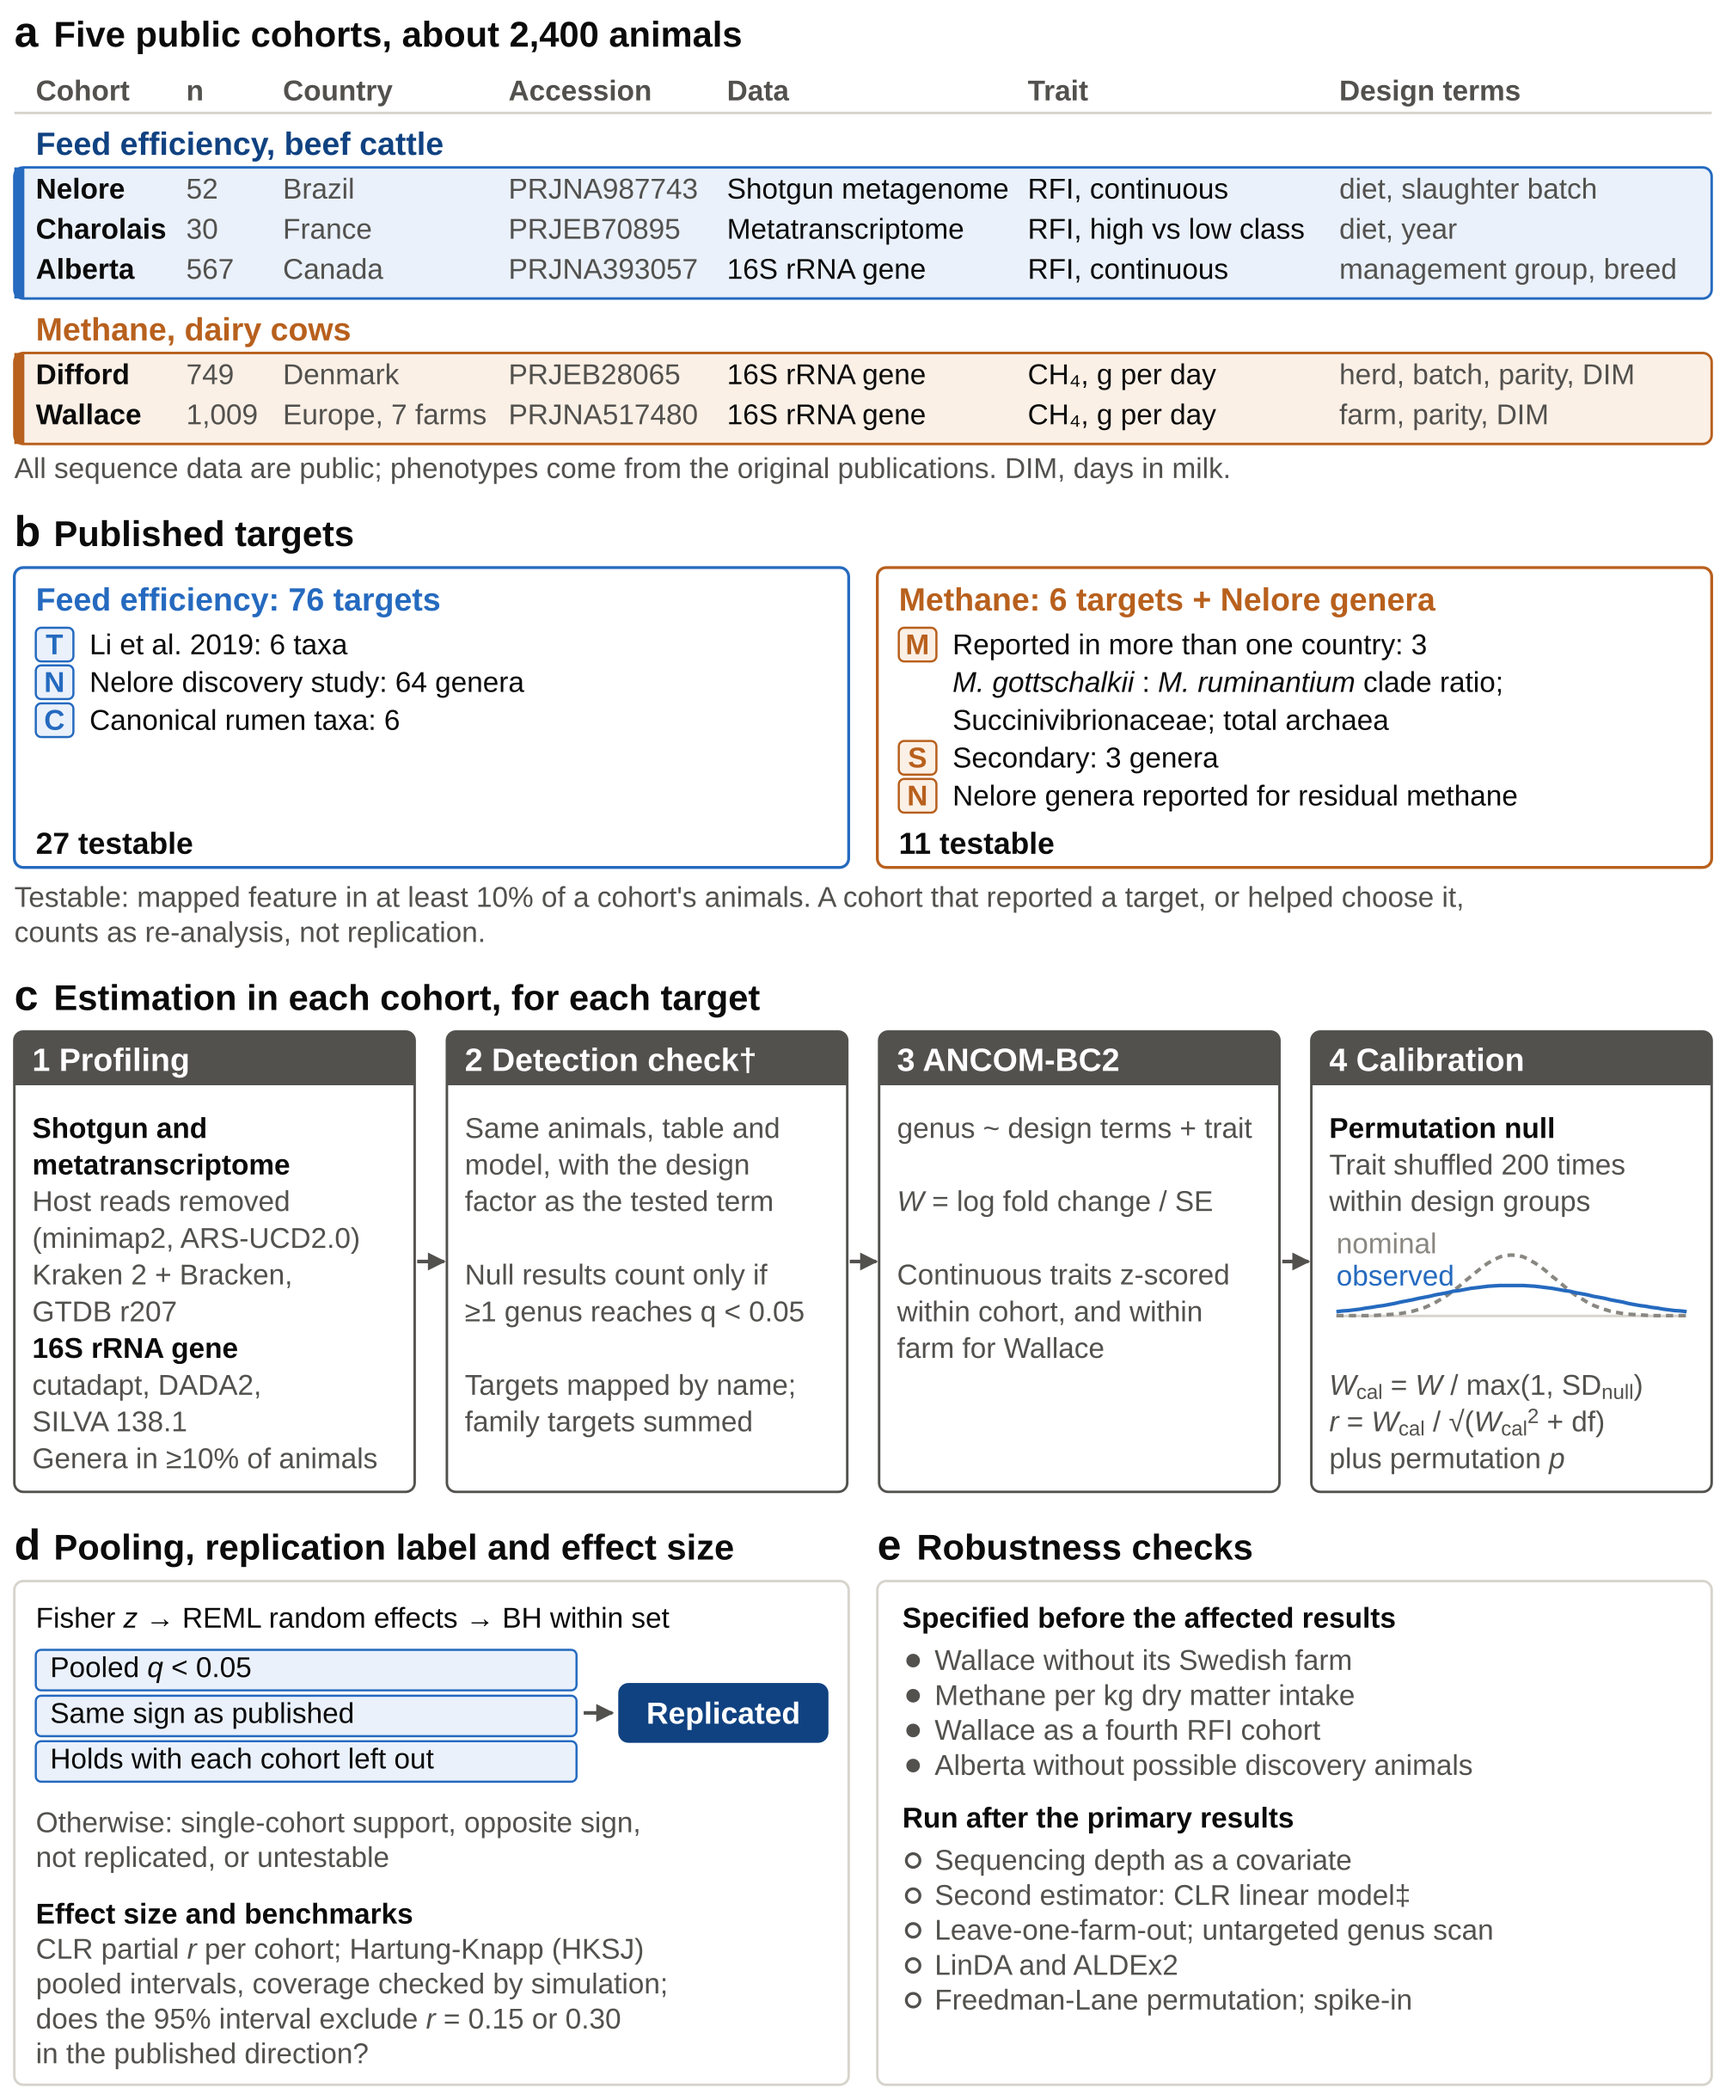
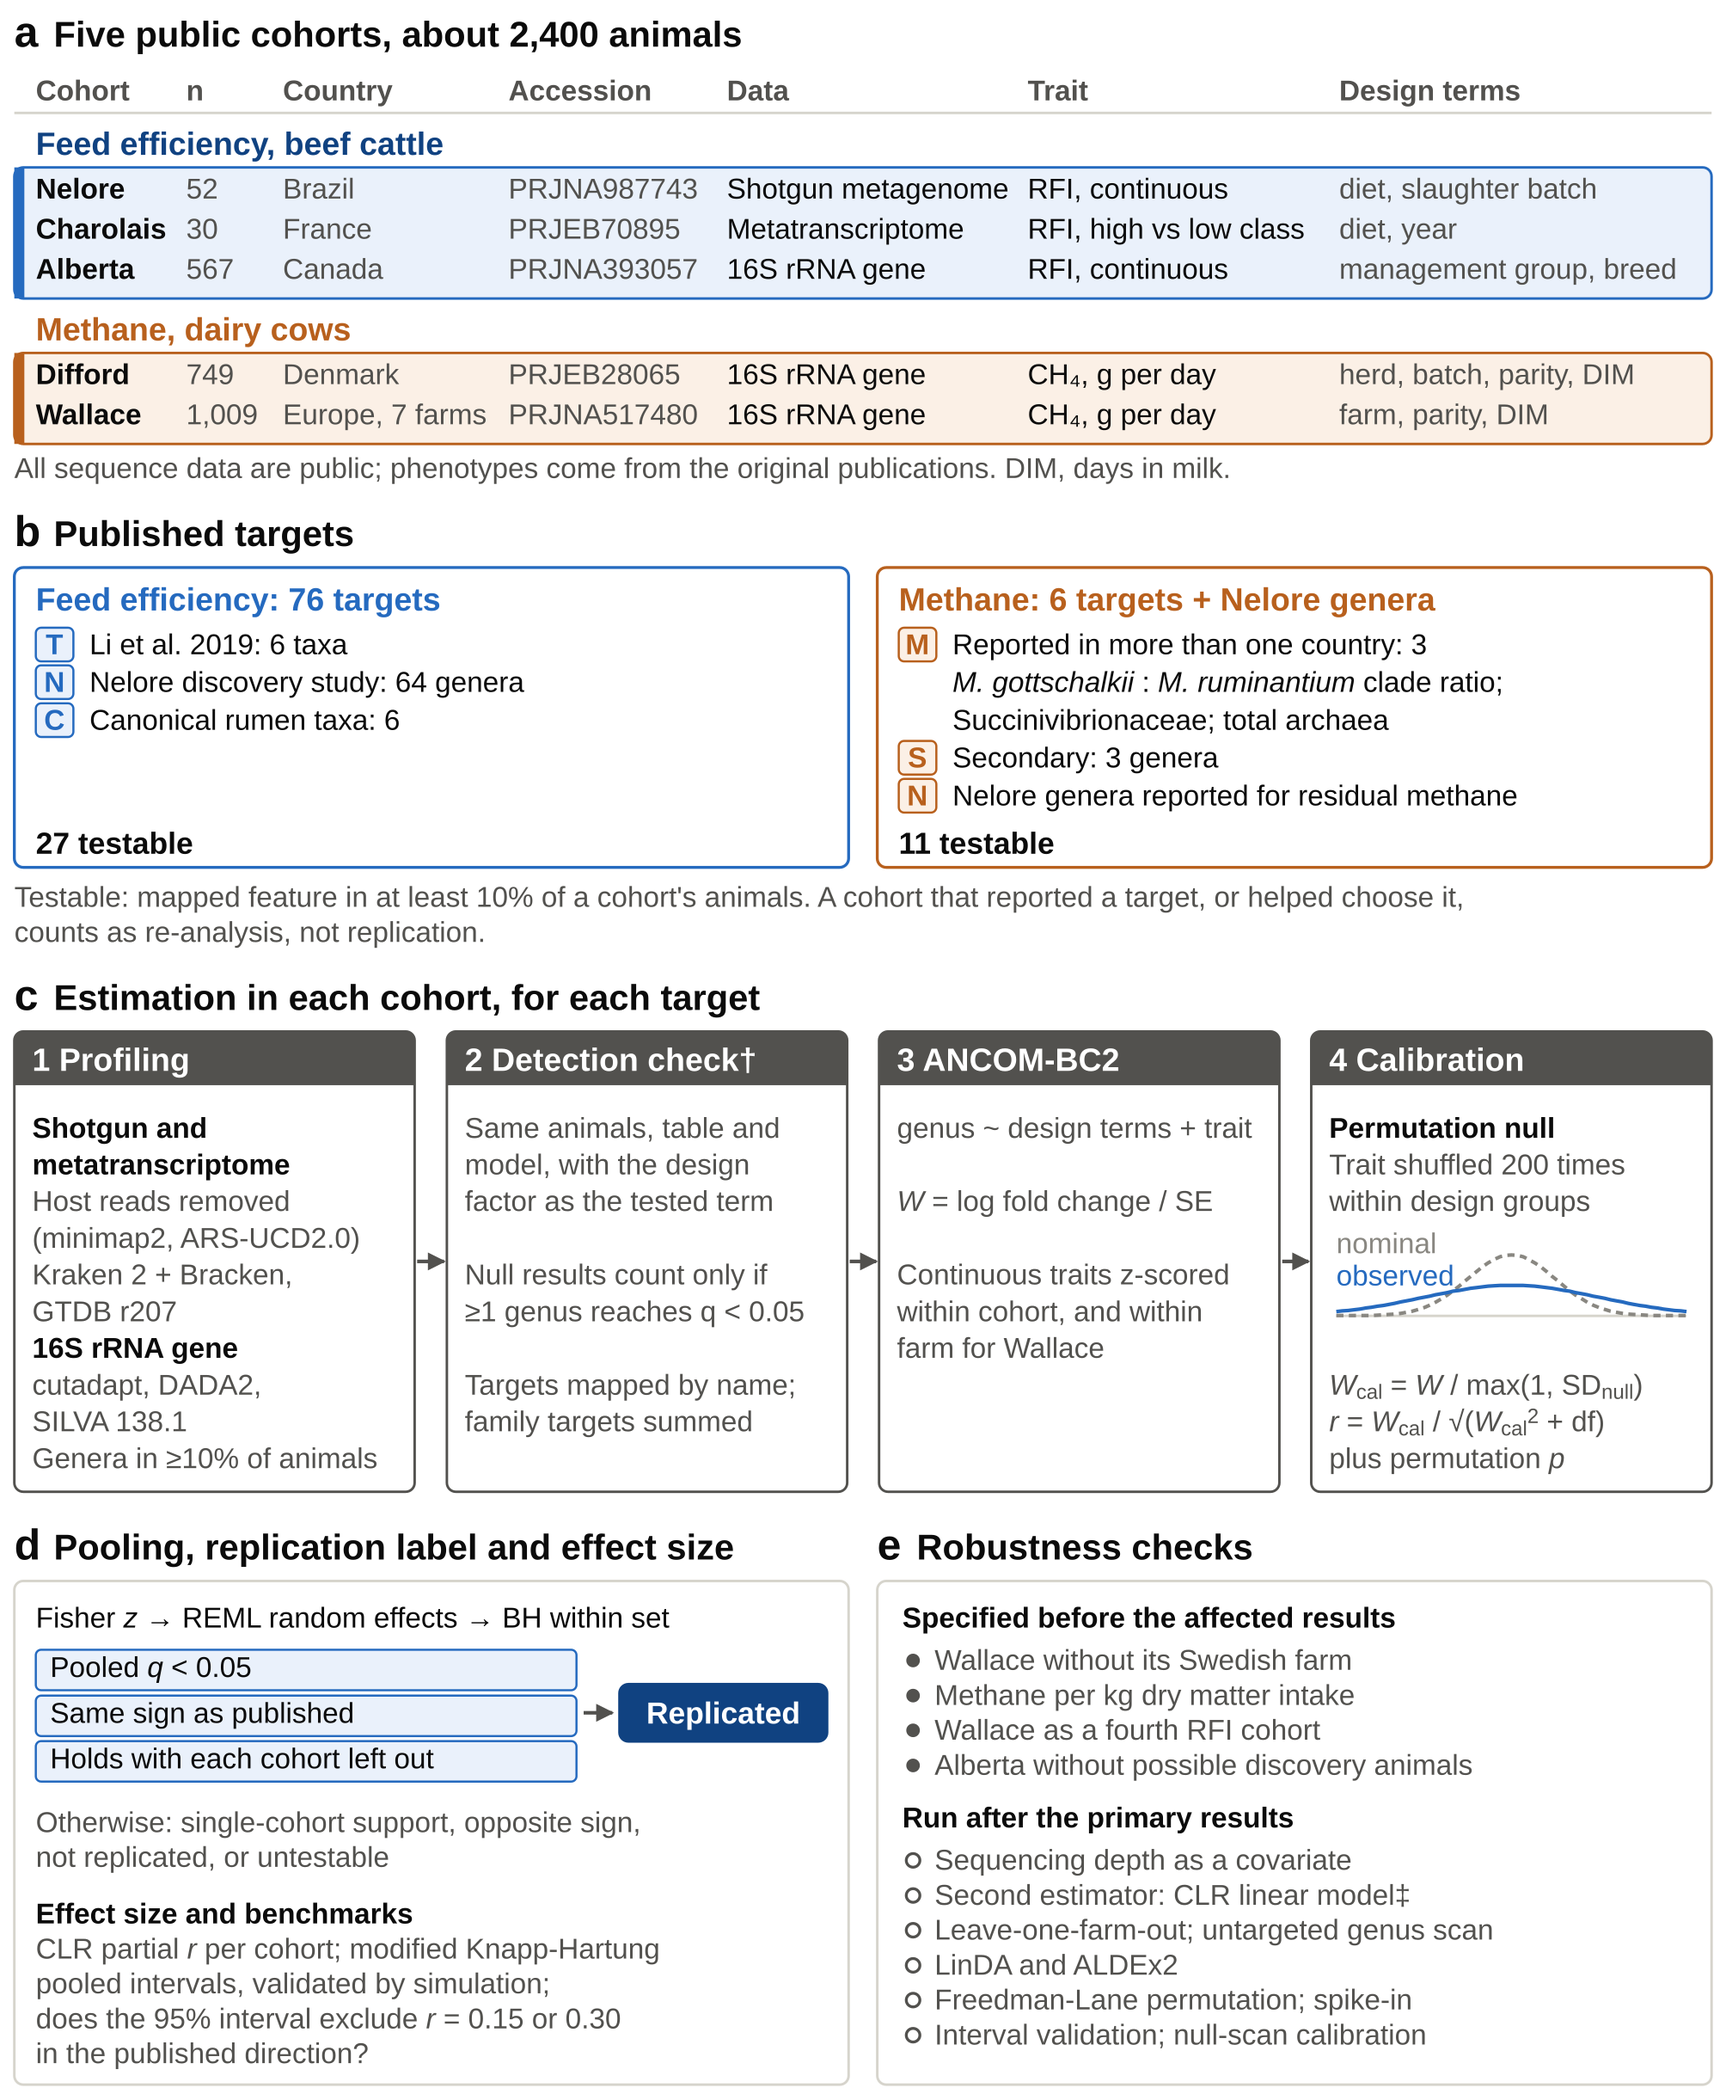
Figure 1: panel d names the modified Knapp-Hartung interval (Amendment 47); panel e adds interval validation and null-scan calibration
Claude-Session: https://claude.ai/code/session_01NJM8KMhUDb1Fhr6i6hfc5N

Changed region(s): [[0.1544, 0.9025, 0.3705, 0.9648], [0.6793, 0.9648, 0.8028, 0.9959], [0.5558, 0.9648, 0.6484, 0.9959]]

diff --git a/scripts/111_figure1_schematic.py b/scripts/111_figure1_schematic.py
@@ -3,7 +3,8 @@
 Render to PDF/PNG with: node scripts/111_render_svg.js fig1_study_design.svg out.png out.pdf <height>mm   (height printed below)
 Amendment 46.5.7: redrawn so that every text is at least 8 pt at 170 mm. The canvas is 482 units wide = 170 mm, so 1 unit = 1 pt.
 Text widths are measured with Arial/Liberation Sans advance widths (table below) and every text is checked against the space it is given;
-the script stops if any text would overflow. Panel d describes the Amendment 46 effect-size estimand behind the exclusion statements."""
+the script stops if any text would overflow. Panel d describes the effect-size estimand behind the exclusion statements: the Amendment 46 CLR partial r
+with the modified Knapp-Hartung interval validated in Amendment 47; panel e lists the Amendment 47 interval validation and null-scan calibration."""
 import re, math, json
 
 W = 482
@@ -186,7 +187,7 @@ yy += 3 * (LH + 3) + 5
 yy = text(M + 6, yy, ['Otherwise: single-cohort support, opposite sign,', 'not replicated, or untestable'], size=S_SM, color=INK2, lh=LH, maxw=dw - 12)
 yy += 6
 text(M + 6, yy, 'Effect size and benchmarks', size=S_SM, weight='bold', maxw=dw - 12)
-yy = text(M + 6, yy + LH, ['CLR partial *r* per cohort; Hartung-Knapp (HKSJ)', 'pooled intervals, coverage checked by simulation;',
+yy = text(M + 6, yy + LH, ['CLR partial *r* per cohort; modified Knapp-Hartung', 'pooled intervals, validated by simulation;',
                            'does the 95% interval exclude *r* = 0.15 or 0.30', 'in the published direction?'], size=S_SM, color=INK2, lh=LH, maxw=dw - 12)
 d_end = yy - LH + 6
 def bullets(y0, head, items, filled):
@@ -201,7 +202,7 @@ yy = bullets(py + 13, 'Specified before the affected results',
              ['Wallace without its Swedish farm', 'Methane per kg dry matter intake', 'Wallace as a fourth RFI cohort', 'Alberta without possible discovery animals'], True)
 yy = bullets(yy + 5, 'Run after the primary results',
              ['Sequencing depth as a covariate', 'Second estimator: CLR linear model‡', 'Leave-one-farm-out; untargeted genus scan', 'LinDA and ALDEx2',
-              'Freedman-Lane permutation; spike-in'], False)
+              'Freedman-Lane permutation; spike-in', 'Interval validation; null-scan calibration'], False)
 ph = max(d_end, yy - LH + 6) - py
 rect(M, py, dw, ph, fill='none', stroke=GRID, sw=0.7)
 rect(ex, py, ew, ph, fill='none', stroke=GRID, sw=0.7)
